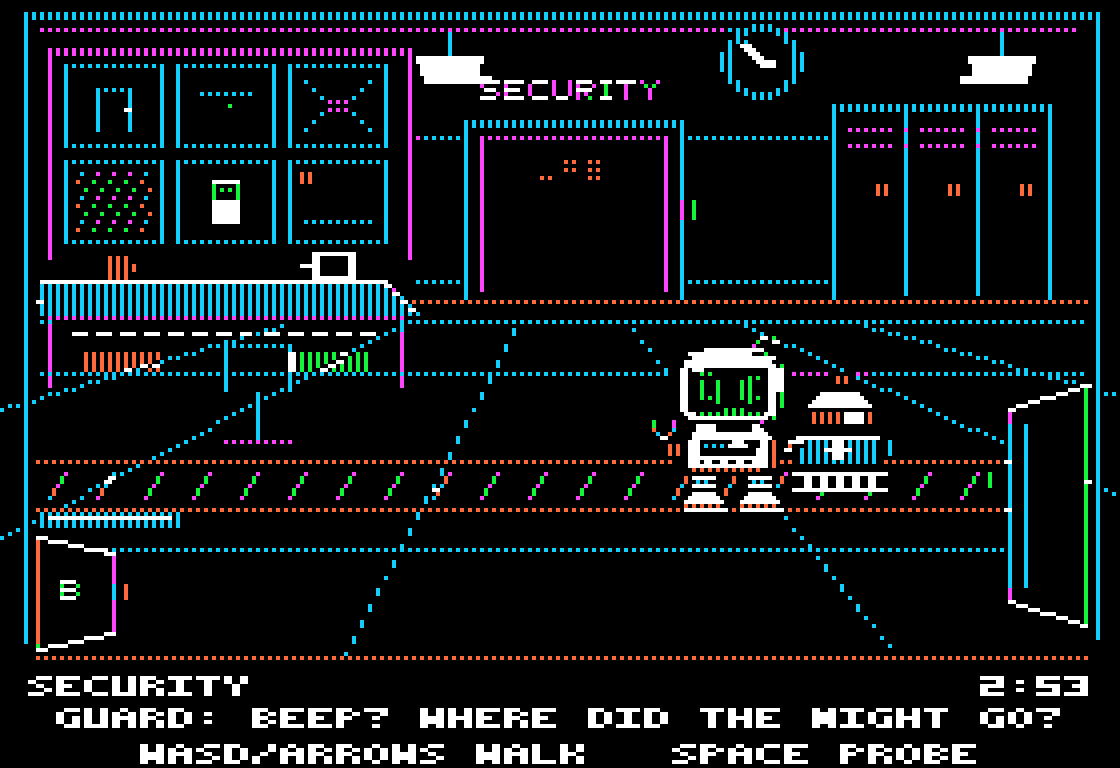
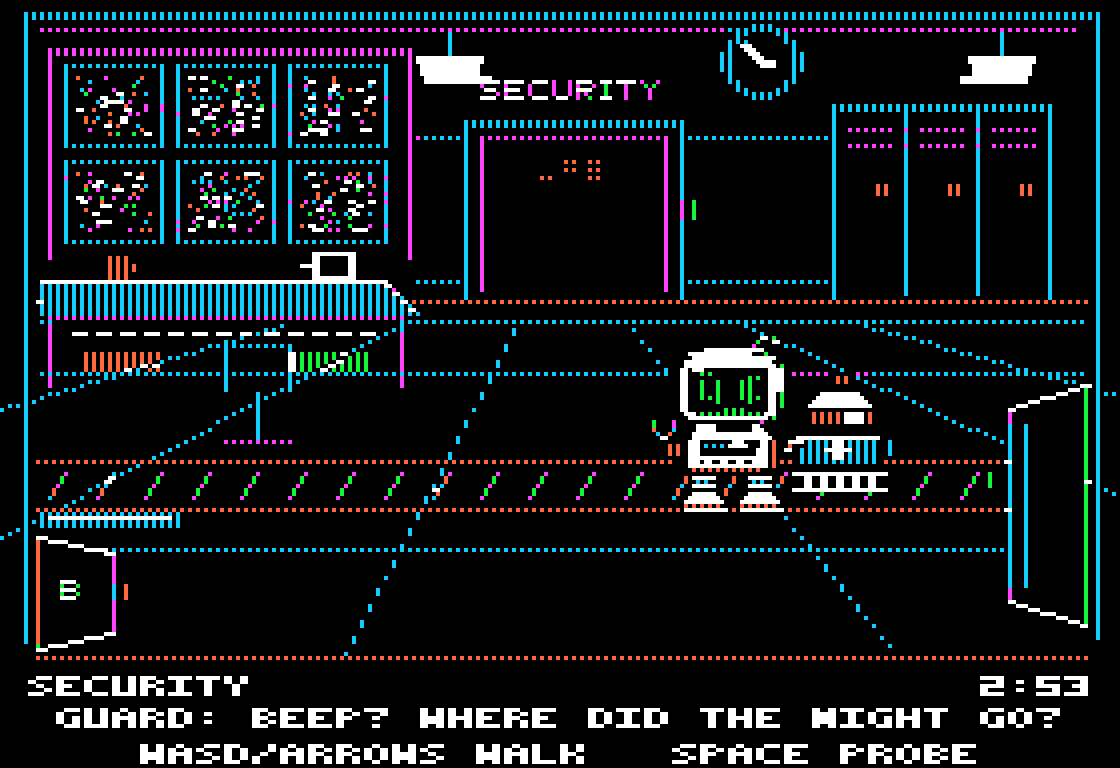
G-Bot WIP: story_test for the second minute and the notes; README walkthrough

Changed region(s): [[0.0625, 0.2188, 0.3438, 0.3125], [0.1562, 0.0938, 0.3438, 0.1875], [0.0625, 0.0938, 0.125, 0.1875]]

diff --git a/Projects/GBotAdventure/tests/story_test.py b/Projects/GBotAdventure/tests/story_test.py
@@ -15,9 +15,11 @@ MAIN,FLASH=sym('main'),sym('flash_shot')
 PX,REPAIR,MESSAGE,FEEDBACK,ROOM,PANEL,FUSE,GSTATE,LABOPEN,CONSOLE,TUNESTEP,TUNEPOS,TALK=0x70,0x83,0x85,0x88,0x8A,0x8C,0x8D,0x92,0x9D,0xA9,0xAA,0xAB,0xAC
 SOUNDOFF,SPKCNT,JINGLES,LOOPS,CHOICE,REFUSED,LEAD,WAKE,HESIT,DEJA=0xB7,0xBF,0xC1,0xCB,0xCC,0xCD,0xCE,0xCF,0xD0,0xD1
 NAMES=('workshop','power','security','lab','substation','wingb')
-MINUTE,GMET,GX=0xD2,0xD3,0x8F
+MINUTE,GMET,GX,CAMJOB,PAGES=0xD2,0xD3,0x8F,0xD5,0xD6
 sys.path.insert(0,str(ROOT/'tools'))
-from gen_workshop import clock_icon,fuse_icon,message_pixels
+from gen_workshop import clock_icon,fuse_icon,page_icon,message_pixels
+from gen_chapter import patches
+PATCH={n:(bx,bytes(d)) for n,bx,d in patches()}
 from gen_concept import row_offset
 failures=[]
 def ok(c,d):
@@ -72,7 +74,7 @@ with tempfile.TemporaryDirectory() as tmp:
         got=set()
         for pg in (0x2000,0x4000):
             rows=[peek(pg+row_offset(177+r)+38,2) for r in range(5)]
-            got.add('clock' if rows==clock_icon() else 'fuse' if rows==fuse_icon() else None)
+            got.add('clock' if rows==clock_icon() else 'fuse' if rows==fuse_icon() else 'page' if rows==page_icon() else None)
         return got.pop() if len(got)==1 else 'mixed'
     def labclock():
         """The lab clock's last digit, if $8000 and both pages agree."""
@@ -81,6 +83,10 @@ with tempfile.TemporaryDirectory() as tmp:
             want=bytes(message_pixels(d)[r][19] for r in range(5))
             if all(c==want for c in cols):return d
         return None
+    def shows(name,bases=(0x8000,)):
+        """Does the room (and the given pages) hold chapter patch `name`?"""
+        (c0,w,r0,h),data=PATCH[name]
+        return all(b''.join(peek(base+row_offset(r0+r)+c0,w) for r in range(h))==data for base in bases)
     def frames(n):
         for _ in range(n):step()
     def door(nxt,x,y,d):
@@ -172,7 +178,8 @@ with tempfile.TemporaryDirectory() as tmp:
         ok(b(JINGLES)==j0+2,'the unseal plays the unlock stinger')
         gx=b(GX);frames(40);ok(b(GX)==gx,'the guard stays put')
         at(b(GX)*7,80,1);frames(6);ok(b(PX)==b(GX)*7 and b(PX+1)==80,'and catches nobody any more')
-        frames(70);hide();at(150,104,1);frames(2);ok(b(MESSAGE)==108,'security now: GUARD: OFF DUTY. WING B IS OPEN.')
+        frames(70);hide();at(150,104,1);frames(2);ok(b(MESSAGE)==0xB8,'security now: GUARD: MY MONITORS! ALL STATIC!')
+        ok(shows('static',(0x8000,0x2000,0x4000)),'waking him turned his monitor wall to snow (room and both pages)')
         # 3c) WING B
         n=len(door_msgs);at(14,110,1);t0=step('A');t_wing=t0;frames(4)
         ok(b(ROOM)==5 and tuple(peek(PX,3))==(224,110,1),'west door: into WING B (224,110 facing west)')
@@ -181,14 +188,64 @@ with tempfile.TemporaryDirectory() as tmp:
         at(120,60,3);step('W');frames(4);ok(b(PX+1)==56,'the coffee counter is solid (G-Bot stops at y=56)')
         at(120,56,3);ok(b(0x84)==1 and b(MESSAGE)==112,'COFFEE MACHINE: SPACE TO PROBE')
         j0=b(JINGLES);step(' ');frames(1);ok(b(MESSAGE)==114,'Space: A DROP OF COFFEE, FROZEN IN MIDAIR.')
-        seq=runs_to(116,600);ok(seq==[114,115,116],'G-BOT: THAT WILL TAKE ANOTHER MINUTE. / TO BE CONTINUED: THE ENDLESS COFFEE (%s)'%seq)
-        ok(b(JINGLES)==j0+1,'the hook plays its stinger');at(56,60,2);shot('13_to_be_continued')
+        seq=runs_to(116,600);ok(seq==[114,115,116],'G-BOT: THAT WILL TAKE ANOTHER MINUTE. / ...MAYBE THE CHAMBER HAS ONE MORE? (the hint; %s)'%seq)
+        ok(b(JINGLES)==j0 and b(0xC4)==2,'the hint chimes (no stinger: not the end any more)');at(56,60,2);shot('13_coffee_hint')
         frames(70);hide();at(200,56,3);ok(b(0x84)==2 and b(MESSAGE)==113,'LOOP LOG: SPACE TO PROBE')
         step(' ');frames(1);seq=runs_to(118,300);ok(seq==[117,118],"LOOP LOG: 4,817 TALLY MARKS. NEAT. / LAST ENTRY: DON'T FLIP THE BREAKER. (%s)"%seq)
         frames(70);n=len(door_msgs);at(224,110,2);t_wback=step('D');frames(4)
         ok(b(ROOM)==2 and tuple(peek(PX,3))==(14,110,2) and door_msgs[n:]==[61],'east door: back to security (14,110 facing east)')
+        # 3d) THE SECOND MINUTE: the chamber is empty; security's monitors
+        ok(shows('static'),'security: the monitor wall is snow since the guard woke (arrival patch in $8000)')
         door(3,122,120,3);hide();frames(2);ok(labclock()=='4','the lab HUD clock now says 6:04')
         at(30,56,3);step(' ');frames(1);ok(b(MESSAGE)==101,'console: CONSOLE: 6:04! SOMETHING WOKE UP.')
+        seq=runs_to(0xB1,300);ok(seq==[101,0xB1],'...CONSOLE: SECURITY MONITORS: NO SIGNAL (%s)'%seq)
+        frames(60);hide();at(122,60,3);step(' ');frames(1);ok(b(MESSAGE)==0xB0 and b(MINUTE)==2,'chamber: CHAMBER: EMPTY. FIX SOMETHING NEARBY.')
+        seq=runs_to(0xB1,300);ok(seq==[0xB0,0xB1],'...CONSOLE: SECURITY MONITORS: NO SIGNAL (%s)'%seq)
+        frames(60);at(122,106,0);door(2,122,48,0);frames(2)
+        ok(shows('static'),'security again: still snow')
+        at(150,104,1);frames(2);ok(b(MESSAGE)==0xB8,'security: GUARD: MY MONITORS! ALL STATIC!');shot('15_monitors_static')
+        at(40,56,3);ok(b(0x84)==1 and b(MESSAGE)==26,'the desk: SECURITY DESK: SPACE TO PROBE')
+        step(' ');frames(2);ok(b(CAMJOB)==1 and b(MESSAGE)==0xB9,'Space: MONITORS: STATIC! R RECONNECT / ESC')
+        step('\x1b');frames(1);ok(b(CAMJOB)==0,'Escape cancels')
+        step(' ');frames(2);at(150,104,1);frames(2);ok(b(CAMJOB)==0,'walking away cancels too')
+        at(40,56,3);step(' ');frames(2);j0=b(JINGLES);step('R');frames(1)
+        ok(b(CAMJOB)==2 and b(MESSAGE)==0xBA,'R: RECONNECTING CAMERAS... HOLD STILL');shot('16_reconnecting')
+        for _ in range(40):
+            if b(CAMJOB)==3:break
+            step()
+        frames(1);ok(b(CAMJOB)==3 and b(JINGLES)==j0+1 and b(0xC4)==10,'the cameras are back: the repair jingle')
+        ok(b(MESSAGE)==0xBB,'GUARD: I CAN SEE! THANKS, G-BOT.')
+        ok(shows('feeds'),'the feeds are back in the room ($8000)')
+        at(150,104,1);frames(3);ok(shows('feeds',(0x8000,0x2000,0x4000)),'...and on both pages')
+        at(40,60,1);shot('17_i_can_see')
+        seq=runs_to(0xBD,400);ok(seq==[0xBB,0xBC,0xBD],'GUARD: CAMERA 4... A FLOATING DROP? / ...FAR AWAY, THE CHAMBER RECHARGES. (%s)'%seq)
+        frames(70);hide();at(150,104,1);frames(2);ok(b(MESSAGE)==108,'security now: GUARD: OFF DUTY. WING B IS OPEN.')
+        door(3,122,120,3);hide();frames(2)
+        at(30,56,3);step(' ');frames(1);ok(b(MESSAGE)==0xB5,'console: CONSOLE: CAMERAS UP. CHAMBER CHARGED.')
+        frames(60);hide();at(122,60,3);j0=b(JINGLES);step(' ');frames(1)
+        ok(b(MINUTE)==3 and b(MESSAGE)==0xB2 and b(JINGLES)==j0+1,'chamber: CHAMBER: CHARGED! A SECOND MINUTE. (tick)')
+        frames(2);ok(hud()=='clock','the HUD clock is back');shot('18_second_minute')
+        seq=runs_to(0xB4,400);ok(seq==[0xB2,0xB3,0xB4],'G-BOT: TICKING AGAIN. COFFEE TIME? / NEW TASK: WAKE THE COFFEE MACHINE (%s)'%seq)
+        frames(60);hide();at(30,56,3);step(' ');frames(1);ok(b(MESSAGE)==0xB6,'console: CONSOLE: 6:04 AND TICKING. AGAIN!')
+        frames(60);hide();at(122,60,3);step(' ');frames(1);ok(b(MESSAGE)==100 and b(MINUTE)==3,'chamber: CHAMBER: ONE MINUTE CARRIED. GO!')
+        # 3e) THE SCIENTIST'S NOTES: the coffee wakes
+        frames(60);at(122,106,0);door(2,122,48,0);door(5,224,110,1);frames(2)
+        at(120,56,3);j0=b(JINGLES);t0=step(' ');frames(1)
+        ok(b(MINUTE)==4 and b(MESSAGE)==0xC0 and b(JINGLES)==j0+1 and b(0xC4)==25,'the second minute: ...PLIP! THE DROP FINALLY LANDS. (the drop falls: %.2f s)'%(t0/1020484))
+        ok(shows('awake'),'the coffee machine is awake: scowl, full cup, steam ($8000)')
+        ok(hud() is None and b(PAGES)==0,'the HUD clock clears; no page yet')
+        seq=runs_to(0xC5,900);ok(seq==[0xC0,0xC1,0xC2,0xC3,0xC4,0xC5],'COFFEE: FINALLY! 4,817 NIGHTS OF DRIP / SHE ALWAYS SAID ONE MORE CUP. / THEN 11:59:59. THEN NOTHING. / SHE LEFT THIS IN MY FILTER. / GOT A NOTEBOOK PAGE! (%s)'%seq)
+        frames(2);ok(b(PAGES)==1 and hud()=='page','the HUD shows the notebook page')
+        at(56,60,2);shot('19_notebook_page');at(120,56,3)
+        seq=runs_to(0xCA,900);ok(seq==[0xC5,0xC6,0xC7,0xC8,0xC9,0xCA],'PAGE: 11:59:59. FULL POWER. A LOOP. / NOT A FLOOD. A TRICKLE ENDS IT. / I HID THE REST. ROOM BY ROOM. / COFFEE: NOW SHOO. / NEW TASK: FIND THE OTHER PAGES (%s)'%seq)
+        j1=b(JINGLES);seq=runs_to(0xCB,300);ok(seq==[0xCA,0xCB],'TO BE CONTINUED: HER MISSING NOTES (%s)'%seq)
+        ok(j1==j0+2,'NEW TASK: FIND THE OTHER PAGES plays the hook stinger');at(56,60,2);shot('20_to_be_continued')
+        frames(70);hide();at(120,56,3);step(' ');frames(1);ok(b(MESSAGE)==0xCC,'the coffee again: COFFEE: BREWING. GO FIND HER PAGES.')
+        frames(70);at(224,110,2);step('D');frames(4);ok(b(ROOM)==2,'back to security')
+        door(5,224,110,1);frames(2);ok(shows('awake'),'wing B again: the machine stays awake this loop')
+        door(2,14,110,2);ok(shows('feeds'),'security keeps its feeds')
+        door(3,122,120,3);hide();frames(2);ok(labclock()=='5','the lab HUD clock now says 6:05')
+        at(30,56,3);step(' ');frames(1);ok(b(MESSAGE)==0xB7,'console: CONSOLE: 6:05! SOMEONE IS GRUMPY.')
         frames(60);hide();at(122,60,3);step(' ');frames(1);ok(b(MESSAGE)==91,'chamber: CHAMBER: RECHARGING. NEXT MINUTE SOON')
         # 4) RESTORE: back to the breaker, Y
         frames(60);at(122,106,0);door(2,122,48,0);door(1,14,90,2);door(4,14,90,2)
@@ -202,7 +259,8 @@ with tempfile.TemporaryDirectory() as tmp:
         n=len(door_msgs);t_wake=step()
         ok(b(ROOM)==0 and tuple(peek(PX,3))==(126,104,0),'the loop resets: G-Bot wakes in the workshop')
         ok(door_msgs[n:]==[72],'its door line: G-BOT REBOOTING... 12:15 AGAIN')
-        ok(b(LOOPS)==1 and b(MESSAGE)==73,'LOOPS=1; G-BOT: ...THAT WAS A BAD IDEA. AGAIN.');shot('8_restore_wake')
+        ok(b(LOOPS)==1 and b(MESSAGE)==0xD1,'LOOPS=1; G-BOT: BAD IDEA. BUT I KEPT THE PAGE.');shot('8_restore_wake')
+        ok((b(PAGES),b(CAMJOB))==(1,3) and hud()=='page','the page and the cameras survive the rerun (HUD: the page)')
         ok((b(REPAIR),b(PANEL),b(FUSE),b(LABOPEN))==(3,3,2,1),'the machines remember him: workbench, fuse and lab door stay fixed')
         ok((b(CONSOLE),b(GSTATE),b(LEAD),b(REFUSED),b(WAKE),b(MINUTE))==(0,0,0,0,0,0),'the console drifts again, the guard will reboot, the lead is back on its hook, the minute is lost')
         ok(b(GMET)==1,'(but the guard met him once)')
@@ -210,6 +268,17 @@ with tempfile.TemporaryDirectory() as tmp:
         door(1,122,120,3);at(224,104,2);step('D');frames(2);ok(b(ROOM)==1 and b(MESSAGE)==66,'the substation is sealed again until she is heard')
         door(2,224,104,1);frames(2);ok(b(GSTATE)==1 and b(MESSAGE)==110,'the guard reboots, faintly: GUARD: ...HAVE WE MET? REBOOTING.');shot('14_have_we_met')
         at(14,110,1);step('A');frames(1);ok(b(ROOM)==2 and b(MESSAGE)==107,'wing B is sealed again')
+        # the next night: the guard woken again (poked), the cameras stay fixed
+        poke(GSTATE,[3]);poke(MINUTE,[2]);door(1,122,120,3);door(2,224,104,1);frames(2)
+        ok(shows('feeds'),'next night, guard awake: no snow (the cameras stayed fixed)')
+        door(5,224,110,1);frames(2);ok(not shows('awake'),'wing B: the drop is frozen again')
+        at(120,56,3);step(' ');frames(1);ok(b(MESSAGE)==0xCD,'G-BOT: FROZEN AGAIN. I KEPT THE PAGE.')
+        seq=runs_to(116,600);ok(seq==[0xCD,115,116],'...THAT WILL TAKE ANOTHER MINUTE. / ...MAYBE THE CHAMBER HAS ONE MORE? (%s)'%seq)
+        frames(70);poke(MINUTE,[3]);hide();at(120,56,3);step(' ');frames(1)
+        ok(b(MESSAGE)==0xCE and b(MINUTE)==4 and shows('awake'),'a second minute again: ...PLIP! THE DROP LANDS. AGAIN.')
+        seq=runs_to(0xD0,600);ok(seq==[0xCE,0xCF,0xD0],'COFFEE: YOU AGAIN?! YOU GOT THE PAGE. / ANOTHER NIGHT. SHOO. (%s)'%seq)
+        ok(b(PAGES)==1,'(still one page)');at(56,60,2);shot('21_you_again')
+        poke(GSTATE,[0]);poke(MINUTE,[0]);door(2,14,110,2)
         poke(0x8F,[3,1,0]);door(3,122,120,3);hide()
         at(30,56,3);step(' ');frames(1);ok(b(MESSAGE)==79 and b(CONSOLE)==1,'CONSOLE: LOOP 4,818. PHASE DRIFT!')
         poke(CONSOLE,[2]);poke(TUNESTEP,[2]);poke(TUNEPOS,[9]);poke(FEEDBACK,[0]);step('R')
@@ -225,7 +294,7 @@ with tempfile.TemporaryDirectory() as tmp:
         door(4,14,90,2);at(120,56,3);s0=spk();ticks2,_,_,_=hesitate(95)
         ok(b(CHOICE)==1 and spk()==s0,'after a rerun: G-BOT: ...I HAVE DONE THIS BEFORE. then the prompt (muted: no clicks)')
         t_wake2=step('Y')
-        ok(b(ROOM)==0 and b(LOOPS)==2 and b(MESSAGE)==74,'second rerun: LOOPS=2; G-BOT: ...STILL A BAD IDEA. AGAIN.')
+        ok(b(ROOM)==0 and b(LOOPS)==2 and b(MESSAGE)==0xD1,'second rerun: LOOPS=2; G-BOT: BAD IDEA. BUT I KEPT THE PAGE.')
         ok(spk()==s0,'sound off: the rerun and the wake make no speaker clicks')
         frames(4);door(1,122,120,3);door(2,224,104,1);poke(0x8F,[3,1,0]);door(3,122,120,3);hide()
         at(30,56,3);step(' ');frames(1);ok(b(MESSAGE)==80,'CONSOLE: LOOP 4,8??. YOU AGAIN?!')

diff --git a/Projects/GBotAdventure/README.md b/Projects/GBotAdventure/README.md
@@ -51,7 +51,14 @@ The official title is **G-Bot: After Hours**; the stable project folder remains
   on the HUD). Touch the patrolling guard with it and he wakes up from his
   loop for good, remembers G-Bot, and gives up the code to **WING B**, a new
   sealed door in the security room. Behind it: the archive, stopped at 3:07,
-  a loop log, and a drop of coffee frozen in midair: **TO BE CONTINUED**.
+  a loop log, and a drop of coffee frozen in midair.
+- **The second minute, and the scientist's notes.** Waking the guard turns his
+  monitor wall to snow; reconnect its cable (Space, then R) and the chamber
+  recharges. A second carried minute wakes wing B's **coffee machine**: the
+  drop finally falls, and the grumpy machine (4,817 nights of drip) hands
+  G-Bot the first **page of the scientist's notebook**: what happened at
+  11:59:59, and that a trickle, not full power, ends the loop. **NEW TASK:
+  FIND THE OTHER PAGES**, then **TO BE CONTINUED**.
 - **A slim HUD.** The big in-game title band is gone. A one-row strip under each
   room names it and shows its clock: **WORKSHOP 12:15**, **POWER ROOM 9:41**
   (stopped when the power went), **SECURITY 2:53**, **THE LAB 6:02**. No two
@@ -128,8 +135,9 @@ The official title is **G-Bot: After Hours**; the stable project folder remains
 
 This is a **six-room prototype**, not the finished adventure. There is no
 combat, lives or saves. There is one story choice; its good branch now runs
-through the guard into wing B and stops at a **TO BE CONTINUED** hook. Y is
-never required.
+through the guard, the security cameras and wing B's coffee machine to the
+first notebook page, and stops at a **TO BE CONTINUED** hook. Y is never
+required.
 
 ## Play the included disk
 
@@ -194,8 +202,10 @@ play only where the game already pauses.
 | Surge + zaps | **Y** at the breaker: a rising surge, then a zap on each negative flash, then the chord | ~2 s with the strobe, blocking |
 | Rewind | waking up in the workshop after a rerun (a sad slide down, in place of the motif) | during the door |
 | Unstick | TRICKLE LEAD IN. THE RING TICKS ONCE. | blocking |
-| Hook | TO BE CONTINUED | blocking |
-| Tick, tock | G-BOT: I'M... TICKING? and the guard waking up | ~0.25 s, blocking |
+| Hook | NEW TASK: FIND THE OTHER PAGES | blocking |
+| Tick, tock | G-BOT: I'M... TICKING?, the guard waking up, the second minute | ~0.25 s, blocking |
+| "Fixed it!" tune, again | the security cameras reconnected | ~0.7 s, blocking |
+| Plip | the coffee drop landing (after its ~0.2 s fall) | ~0.1 s, blocking |
 | Door chirp | every door with no room tune | ~22 ms, during the door |
 | Room motif | entering a room: see below | ~0.45 s, during the door |
 
@@ -430,8 +440,9 @@ finishes. Resetting/rebooting starts with the fault again. No disk data is saved
    The HUD clock clears. The guard stands still for good and catches nobody;
    the room now reads **GUARD: OFF DUTY. WING B IS OPEN.**
 3. Back in the lab the HUD clock says **6:04**, the console
-   **CONSOLE: 6:04! SOMETHING WOKE UP.** and the chamber
-   **CHAMBER: RECHARGING. NEXT MINUTE SOON**.
+   **CONSOLE: 6:04! SOMETHING WOKE UP.** and then
+   **CONSOLE: SECURITY MONITORS: NO SIGNAL**; the chamber says
+   **CHAMBER: EMPTY. FIX SOMETHING NEARBY.** (and the same console line).
 
 ### Wing B
 
@@ -441,16 +452,60 @@ cabinets on the left, the **coffee machine** on its counter at the back, and
 a **loop log** whiteboard on the right. The east door leads back to security.
 - At the coffee machine (**COFFEE MACHINE: SPACE TO PROBE**), Space:
   **A DROP OF COFFEE, FROZEN IN MIDAIR.**,
-  **G-BOT: THAT WILL TAKE ANOTHER MINUTE.** and
-  **TO BE CONTINUED: THE ENDLESS COFFEE**.
+  **G-BOT: THAT WILL TAKE ANOTHER MINUTE.** and the hint
+  **...MAYBE THE CHAMBER HAS ONE MORE?** (a chime).
 - At the whiteboard (**LOOP LOG: SPACE TO PROBE**), Space:
   **LOOP LOG: 4,817 TALLY MARKS. NEAT.** and
   **LAST ENTRY: DON'T FLIP THE BREAKER.**
 
-**A rerun (Y) at any point** loses the minute and puts the guard back to
-sleep: he reboots and patrols again, wing B is sealed again, and the lab
-clock is back at 6:02. He does remember, faintly:
-**GUARD: ...HAVE WE MET? REBOOTING.**
+### The second minute
+
+1. Waking the guard jolted his **monitor wall into snow** (all six feeds). In
+   security he complains: **GUARD: MY MONITORS! ALL STATIC!**
+2. At the desk, Space: **MONITORS: STATIC! R RECONNECT / ESC** (Esc, or walking
+   away, cancels). **R**: **RECONNECTING CAMERAS... HOLD STILL**, a short
+   bounded pause and the workshop's "fixed it!" tune. The feeds come back:
+   **GUARD: I CAN SEE! THANKS, G-BOT.**, **GUARD: CAMERA 4... A FLOATING DROP?**
+   and **...FAR AWAY, THE CHAMBER RECHARGES.** (chime).
+3. In the lab the console now says **CONSOLE: CAMERAS UP. CHAMBER CHARGED.**
+   Space at the chamber: **CHAMBER: CHARGED! A SECOND MINUTE.** (tick, tock;
+   the HUD clock is back), **G-BOT: TICKING AGAIN. COFFEE TIME?** and
+   **NEW TASK: WAKE THE COFFEE MACHINE**. While he carries it the console says
+   **CONSOLE: 6:04 AND TICKING. AGAIN!**
+
+### The scientist's notes
+
+1. In wing B, Space at the coffee machine with the second minute: the drop
+   falls into the cup (a two-frame fall, ~0.2 s), **...PLIP! THE DROP FINALLY
+   LANDS.** The machine wakes: its screen scowls in orange, the cup is full and
+   steaming, and the HUD clock clears (the minute is spent).
+2. It talks: **COFFEE: FINALLY! 4,817 NIGHTS OF DRIP**,
+   **COFFEE: SHE ALWAYS SAID ONE MORE CUP.**,
+   **COFFEE: THEN 11:59:59. THEN NOTHING.**,
+   **COFFEE: SHE LEFT THIS IN MY FILTER.**
+3. **GOT A NOTEBOOK PAGE!** (chime; a little page icon appears on the HUD).
+   The page reads **PAGE: 11:59:59. FULL POWER. A LOOP.**,
+   **PAGE: NOT A FLOOD. A TRICKLE ENDS IT.** and
+   **PAGE: I HID THE REST. ROOM BY ROOM.**
+4. **COFFEE: NOW SHOO. MY CUP IS COOLING.**,
+   **NEW TASK: FIND THE OTHER PAGES** (the hook) and
+   **TO BE CONTINUED: HER MISSING NOTES**.
+5. Probe it again: **COFFEE: BREWING. GO FIND HER PAGES.** (If G-Bot walked off
+   before the page changed hands, it hands it over now.) The lab clock says
+   **6:05**, the console **CONSOLE: 6:05! SOMEONE IS GRUMPY.** and the chamber
+   **CHAMBER: RECHARGING. NEXT MINUTE SOON**.
+
+**A rerun (Y) at any point** resets the night: the minutes are lost, the guard
+goes back to sleep (he reboots and patrols again, wing B is sealed again), the
+coffee drop hangs frozen again and the lab clock is back at 6:02. He does
+remember, faintly: **GUARD: ...HAVE WE MET? REBOOTING.** Repairs stay done,
+the security cameras included, and **the page stays with G-Bot** (the HUD
+keeps its icon): he wakes with **G-BOT: BAD IDEA. BUT I KEPT THE PAGE.** In the
+next night the frozen coffee gets **G-BOT: FROZEN AGAIN. I KEPT THE PAGE.**,
+and once the guard is awake again the chamber charges at once (the cameras are
+still fixed). Waking the coffee a second time:
+**...PLIP! THE DROP LANDS. AGAIN.**, **COFFEE: YOU AGAIN?! YOU GOT THE PAGE.**
+and **COFFEE: ANOTHER NIGHT. SHOO.**
 
 ![Carrying time: the minute on the HUD, the lab clock at 6:03](screenshots/story_6_carrying_time_enhanced.png)
 
@@ -460,7 +515,21 @@ clock is back at 6:02. He does remember, faintly:
 
 ![Wing B](screenshots/story_12_wing_b_enhanced.png)
 
-![TO BE CONTINUED: THE ENDLESS COFFEE](screenshots/story_13_to_be_continued_enhanced.png)
+![The coffee hint](screenshots/story_13_coffee_hint_enhanced.png)
+
+![The monitor wall in snow](screenshots/story_15_monitors_static_enhanced.png)
+
+![Reconnecting the cameras](screenshots/story_16_reconnecting_enhanced.png)
+
+![I CAN SEE!](screenshots/story_17_i_can_see_enhanced.png)
+
+![The second minute](screenshots/story_18_second_minute_enhanced.png)
+
+![The coffee machine awake: GOT A NOTEBOOK PAGE!](screenshots/story_19_notebook_page_enhanced.png)
+
+![TO BE CONTINUED: HER MISSING NOTES](screenshots/story_20_to_be_continued_enhanced.png)
+
+![Next night: YOU AGAIN?!](screenshots/story_21_you_again_enhanced.png)
 
 ![After a rerun: HAVE WE MET?](screenshots/story_14_have_we_met_enhanced.png)
 
